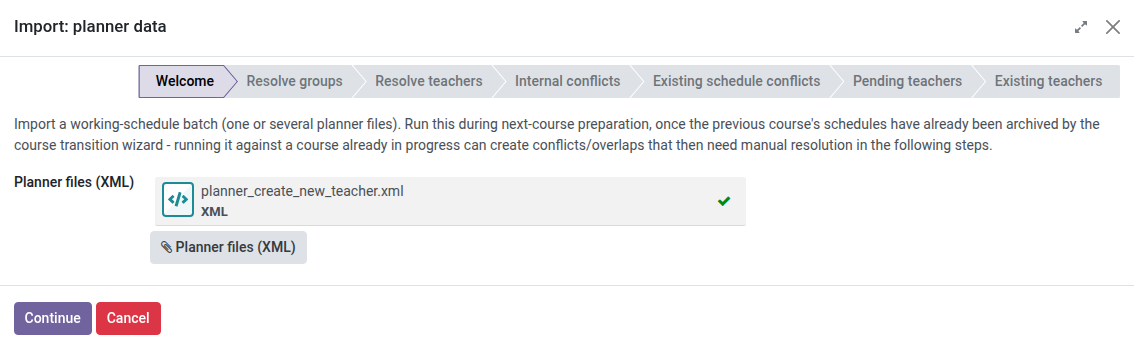
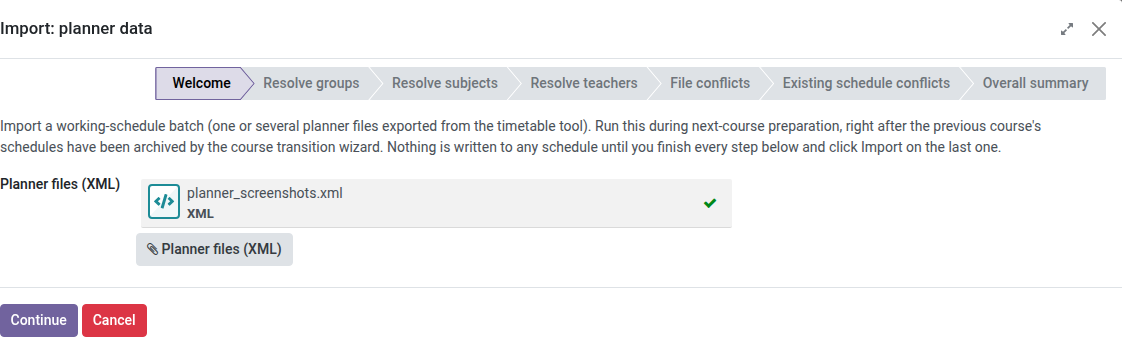
Docs

diff --git a/static/tests/tours/working_schedules_import_wizard_tour.js b/static/tests/tours/working_schedules_import_wizard_tour.js
@@ -1479,3 +1479,4 @@ registry.category("web_tour.tours").add("ems_employee_pending_identification_ind
         },
     ],
 });
+

diff --git a/tests/test_enrollment_placement.py b/tests/test_enrollment_placement.py
@@ -14,9 +14,30 @@ class TestEnrollmentPlacement(TransactionCase):
     @classmethod
     def setUpClass(cls):
         super().setUpClass()
-        Course = cls.env['ems.course']
-        cls.course = Course.search([('is_enrollment_default', '=', True)], limit=1) \
-            or Course.create({'start': 2099, 'end': 2100, 'is_enrollment_default': True})
+        # A dedicated, always-in-the-future course, explicitly made the REAL 'is_enrollment_default'
+        # one via the company selector - not a plain field write, and not left to whichever course
+        # the ambient dev DB happens to have it on. Found the hard way (2026-08-11, a full unscoped
+        # './test.sh' run): the original fixture searched for whatever course was ALREADY flagged
+        # 'is_enrollment_default', assuming that course could never also be 'current'
+        # (company.current_course_id) - an assumption 'ems.course' itself never guarantees. Per
+        # '_ems_seed_enrollment_default's own docstring, the two flags legitimately coincide for a
+        # real, expected window: right after a course transition, before the centre manually opens
+        # the FOLLOWING year's own campaign - exactly the dev DB's own current state when this broke
+        # (course '2026-2027' held both). When they coincide, '_ems_placement_is_individual()'
+        # (ems_course_id == company.current_course_id) returns True for this test's own orders,
+        # applying placement immediately instead of deferring it to the transition wizard - breaking
+        # 'test_admit_converts_applicant'/'test_admit_student_keeps_group', which specifically test
+        # the DEFERRED path. But 'is_enrollment_default' itself IS a real, load-bearing dependency
+        # elsewhere in this same file - 'res.partner._compute_transition_status()' independently
+        # searches for whichever course holds that flag (ignoring 'cls.course' entirely) to decide
+        # 'unplaced' vs 'missing' - a first fix that just dropped the flag broke
+        # 'test_action_suggest_fills_enrolled_skips_unenrolled' the same way. Routing the move
+        # through 'company.enrollment_course_id' (not a direct 'is_enrollment_default' write) reuses
+        # the same clear-then-set sync '_sync_enrollment_course_flag' already provides - exactly the
+        # mechanism a real admin moving the flag through Settings would trigger, and the only way to
+        # actually satisfy 'ems.course''s own uniqueness constraint without a separate unset step.
+        cls.course = cls.env['ems.course'].create({'start': 2099, 'end': 2100})
+        cls.env.company.enrollment_course_id = cls.course.id
         cls.level, cls.study = create_level_study(cls, 'PLV', level={'name': 'Placement Level'}, study={
             'code': 'PLC001', 'acronym': 'PLST', 'name': 'Placement Study',
         })

diff --git a/docs/es/admin/working-schedules.md b/docs/es/admin/working-schedules.md
@@ -122,15 +122,23 @@ El asistente te guía por varias pantallas, cada una con su propia explicación 
 
    ![Pantalla de Bienvenida del asistente con un archivo del planificador adjuntado](../../assets/admin/working-schedules-import-01-welcome.png)
 4. Si los archivos mencionan algún nombre de grupo que EMS no ha podido emparejar automáticamente, una pantalla de **Resolver grupos** los lista uno a uno: elige el grupo real en el desplegable de cada fila (o crea uno al vuelo, igual que en cualquier otro campo de grupo) y haz clic en **Continuar**. Si todos los grupos se reconocieron automáticamente, verás un mensaje de confirmación en lugar de una lista. El botón **Continuar** aparece atenuado hasta que todas las filas tengan un grupo elegido.
+
+   ![Pantalla de Resolver grupos con un nombre de grupo del archivo sin resolver](../../assets/admin/working-schedules-import-02-resolve-groups.png)
 5. Si un archivo indica una asignatura que en realidad no se imparte en el estudio del grupo (un código de asignatura equivocado, o un grupo asignado a la asignatura incorrecta), una pantalla de **Resolver asignaturas** lista cada discrepancia, dejándote corregir **cualquiera de los dos lados** — el que realmente estuviera mal: el campo **Grupo(s)** empieza con el grupo (o grupos) del archivo pero se puede cambiar (quita el incorrecto, añade el correcto, igual que en cualquier otro campo de grupos con etiquetas); el desplegable de **Asignatura** empieza con la asignatura del archivo y solo te deja elegir una que realmente se imparta en el estudio del grupo (ya corregido, si lo has cambiado). A menudo basta con corregir el grupo, si la asignatura del archivo era correcta desde el principio. Si todas las asignaturas coincidían correctamente, verás un mensaje de confirmación. El botón **Continuar** aparece atenuado hasta que todas las filas tengan una combinación válida.
+
+   ![Pantalla de Resolver asignaturas con un desajuste entre asignatura y grupo](../../assets/admin/working-schedules-import-03-resolve-subjects.png)
 6. Si los archivos mencionan un correo de docente o un código de puesto aún no cubierto (`X1`, `X2`...) que EMS no ha podido emparejar con ningún docente existente, una pantalla de **Resolver docentes** los lista, con **Nuevo** marcado por defecto (asumiendo un docente genuinamente nunca contratado) - déjalo marcado para crear un nuevo docente pendiente de identificar para ese caso en el paso final de Importar (ver "Docentes aún no contratados" más abajo); para una fila con correo, además se conserva el correo del archivo, precargado como **Correo de trabajo** editable a mano (**Asignar correo corporativo manualmente** marcado) en lugar de generarse automáticamente, ya que todavía no se ha confirmado. Si en realidad es un error/desajuste de un docente ya existente — o un código/correo que reconoces como la MISMA persona real ya listada en otra fila de esta misma pantalla — desmarca **Nuevo** y elige el docente real en el desplegable (desmarcarlo es lo que lo desbloquea); elegir el mismo docente para dos filas distintas empareja ambas con esa misma persona, sin crear ningún duplicado. Si todos los correos/códigos se reconocieron, verás un mensaje de confirmación. El botón **Continuar** también aparece atenuado aquí hasta que todas las filas tengan un docente elegido o **Nuevo** marcado.
 
-   ![Pantalla de Resolver docentes con la casilla Nuevo antes del desplegable Docente](../../assets/admin/working-schedules-import-02-resolve-teachers-new.png)
+   ![Pantalla de Resolver docentes con la casilla Nuevo antes del desplegable Docente](../../assets/admin/working-schedules-import-04-resolve-teachers.png)
 7. Si dos docentes distintos del mismo lote acaban programados en la misma aula a la misma hora — o si el mismo docente real (por ejemplo, dos identificadores que has resuelto hacia la misma persona en la pantalla anterior) acaba con una doble reserva a la misma hora en dos aulas distintas — una pantalla de **Conflictos del archivo** lista cada pareja, agrupada en una tarjeta por tipo de conflicto ("Co-docencia", "Sesión desdoblada", "Conflicto de aula", "Mismo docente, aula diferente"), y dentro de cada tarjeta, un bloque por cada combinación de docente+asignatura (sin importar en qué grupo/día/hora concretos caiga cada pareja), que agrupa todas las parejas que la comparten. Cada bloque tiene su propio desplegable arriba ("— aplicar a todos —") - elige una resolución ahí y se aplica a todas las filas de debajo a la vez (puedes cambiar cualquier fila individual a mano después). Cada fila describe ambas entradas en conflicto, unidas por **"vs."** - leer de izquierda a derecha es lo que significan "Izquierda"/"Derecha" en las opciones de resolución de abajo. Las opciones de resolución en sí: **"Confirmar"** si realmente comparten esa clase (solo se ofrece para filas de "Co-docencia"); **"Reasignar aulas"** para un choque real de aula - elige el aula real para cada lado, ya que ambos empiezan con la misma aula que provoca el conflicto; o **"Prevalece la izquierda"/"Prevalece la derecha"** para simplemente mantener un lado (el de antes/después del "vs." de esa fila) y descartar el otro. Una fila de "Mismo docente, aula diferente" solo ofrece "Prevalece la izquierda"/"Prevalece la derecha" - reasignar un aula no soluciona nada cuando el problema real es que un docente tenga que estar en dos sitios a la vez. Si no hay nada que resolver, verás un mensaje de confirmación. El botón **Continuar** aparece atenuado hasta que todas las filas tengan una resolución real (para "Reasignar aulas", eso significa que las dos aulas deben ser realmente distintas).
 
-   ![Pantalla de Conflictos del archivo agrupada en tarjetas, una por tipo de conflicto](../../assets/admin/working-schedules-import-03-grouped-conflicts.png)
+   ![Pantalla de Conflictos del archivo agrupada en tarjetas, una por tipo de conflicto](../../assets/admin/working-schedules-import-05-file-conflicts.png)
 8. Si alguna entrada del archivo coincide con un aula+hora ya usada activamente por el horario existente de otra persona, una pantalla de **Conflictos con horarios existentes** lista cada una del mismo modo agrupado en tarjetas - aquí cada fila indica explícitamente sus dos lados con **"Archivo: ..."** (la nueva entrada) y **"Base de datos: ..."** (la sesión ya existente), en lugar de "vs." - "Prevalece la izquierda" siempre significa que gana el lado del **Archivo**, "Prevalece la derecha" siempre significa que gana el de la **Base de datos**, siguiendo ese mismo orden. Con las mismas opciones de resolución que "Conflictos del archivo" más arriba: elegir **"Prevalece la izquierda"** archiva la sesión existente (liberando el hueco para la nueva); elegir **"Prevalece la derecha"** descarta la nueva entrada en su lugar, dejando la sesión existente intacta. Si no hay nada que resolver, verás un mensaje de confirmación.
+
+   ![Pantalla de Conflictos con horarios existentes, con una entrada del Archivo en conflicto con una sesión de la Base de datos](../../assets/admin/working-schedules-import-06-existing-schedule-conflicts.png)
 9. Una pantalla de **Resumen general** recapitula toda la operación antes de confirmarla: un recuento de cada nombre de grupo, correo/código de docente, docente pendiente y conflicto resueltos durante el proceso, más una lista de cada profesor que esta importación ya ha emparejado con un empleado real y existente (reconocido automáticamente, o corregido en la pantalla "Resolver docentes") — un aviso de que esta importación va a actualizar (sobrescribir) su horario/asignaciones de asignaturas. Si ninguno de los profesores del archivo existe ya, verás un mensaje de confirmación en lugar de esta lista. Como ninguno de los pasos anteriores permite volver atrás, esta es la última oportunidad de comprobar que todo está correcto antes de hacer clic en Importar.
+
+   ![Pantalla de Resumen general recapitulando todas las resoluciones hechas durante la importación](../../assets/admin/working-schedules-import-07-overall-summary.png)
 10. Haz clic en **Importar**. Este es el momento en que todo se escribe de verdad, y donde cualquier problema pendiente (un aula que falta) se reporta indicando exactamente qué hay que corregir.
 
 > Hazlo durante la preparación del próximo curso, una vez que los horarios del curso anterior ya hayan sido archivados por el asistente de "Configurar el próximo curso" — ejecutarlo contra un curso ya en marcha puede generar conflictos que luego habrá que resolver a mano.

diff --git a/docs/ca/admin/working-schedules.md b/docs/ca/admin/working-schedules.md
@@ -122,15 +122,23 @@ L'assistent et guia per diverses pantalles, cadascuna amb la seva pròpia explic
 
    ![Pantalla de Benvinguda de l'assistent amb un fitxer del planificador adjuntat](../../assets/admin/working-schedules-import-01-welcome.png)
 4. Si els fitxers esmenten algun nom de grup que EMS no ha pogut aparellar automàticament, una pantalla de **Resoldre grups** en llista cadascun: tria el grup real al desplegable de cada fila (o crea'n un al moment, igual que en qualsevol altre camp de grup) i fes clic a **Continua**. Si tots els grups s'han reconegut automàticament, veuràs un missatge de confirmació en lloc d'una llista. El botó **Continua** apareix atenuat fins que totes les files tenen un grup triat.
+
+   ![Pantalla de Resoldre grups amb un nom de grup del fitxer sense resoldre](../../assets/admin/working-schedules-import-02-resolve-groups.png)
 5. Si un fitxer indica una assignatura que en realitat no s'imparteix als estudis del grup (un codi d'assignatura equivocat, o un grup assignat a l'assignatura incorrecta), una pantalla de **Resoldre assignatures** en llista cada discrepància, deixant-te corregir **qualsevol dels dos costats** — el que realment estigués malament: el camp **Grup(s)** comença amb el grup (o grups) del fitxer però es pot canviar (treu l'incorrecte, afegeix el correcte, igual que en qualsevol altre camp de grups amb etiquetes); el desplegable d'**Assignatura** comença amb l'assignatura del fitxer i només et deixa triar-ne una que realment s'imparteixi als estudis del grup (ja corregit, si l'has canviat). Sovint n'hi ha prou amb corregir el grup, si l'assignatura del fitxer ja era correcta des del principi. Si totes les assignatures coincidien correctament, veuràs un missatge de confirmació. El botó **Continua** apareix atenuat fins que totes les files tenen una combinació vàlida.
+
+   ![Pantalla de Resoldre assignatures amb un desajust entre assignatura i grup](../../assets/admin/working-schedules-import-03-resolve-subjects.png)
 6. Si els fitxers esmenten un correu de docent o un codi de lloc encara no cobert (`X1`, `X2`...) que EMS no ha pogut aparellar amb cap docent existent, una pantalla de **Resoldre docents** en llista cadascun, amb **Nou** marcat per defecte (assumint un docent genuïnament mai contractat) - deixa-ho marcat per crear un nou docent pendent d'identificació per a aquest cas al pas final d'Importar (vegeu "Docents encara no contractats" més avall); per a una fila amb correu, a més es conserva el correu del fitxer, precarregat com a **Correu de treball** editable a mà (**Assignar correu corporatiu manualment** marcat) en lloc de generar-se automàticament, ja que encara no s'ha confirmat. Si en realitat és un error/desajust d'un docent ja existent — o un codi/correu que reconeixes com la MATEIXA persona real ja llistada en una altra fila d'aquesta mateixa pantalla — desmarca **Nou** i tria el docent real al desplegable (desmarcar-lo és el que el desbloqueja); triar el mateix docent per a dues files diferents les aparella totes dues amb aquella mateixa persona, sense crear-ne cap duplicat. Si tots els correus/codis s'han reconegut, veuràs un missatge de confirmació. El botó **Continua** també apareix atenuat aquí fins que totes les files tenen un docent triat o **Nou** marcat.
 
-   ![Pantalla de Resoldre docents amb la casella Nou abans del desplegable Docent](../../assets/admin/working-schedules-import-02-resolve-teachers-new.png)
+   ![Pantalla de Resoldre docents amb la casella Nou abans del desplegable Docent](../../assets/admin/working-schedules-import-04-resolve-teachers.png)
 7. Si dos docents diferents del mateix lot acaben programats a la mateixa aula i la mateixa hora — o si el mateix docent real (per exemple, dos identificadors que has resolt cap a la mateixa persona a la pantalla anterior) acaba amb una doble reserva a la mateixa hora en dues aules diferents — una pantalla de **Conflictes del fitxer** en llista cada parella, agrupada en una targeta per tipus de conflicte ("Co-docència", "Sessió desdoblada", "Conflicte d'aula", "Mateix docent, aula diferent"), i dins de cada targeta, un bloc per cada combinació de docent+assignatura (independentment de a quin grup/dia/hora concrets caigui cada parella), que agrupa totes les parelles que la comparteixen. Cada bloc té el seu propi desplegable a dalt ("— aplicar a tots —") — tria una resolució allà i s'aplica a totes les files de sota alhora (pots canviar qualsevol fila individual a mà després). Cada fila descriu totes dues entrades en conflicte, unides per **"vs."** — llegir d'esquerra a dreta és el que volen dir "Esquerra"/"Dreta" a les opcions de resolució de sota. Les opcions de resolució en si: **"Confirmar"** si realment comparteixen aquella classe (només s'ofereix per a files de "Co-docència"); **"Reassignar aules"** per a un xoc real d'aula - tria l'aula real per a cada costat, ja que totes dues comencen amb la mateixa aula que provoca el conflicte; o **"Preval l'esquerra"/"Preval la dreta"** per mantenir simplement un costat (el d'abans/després del "vs." d'aquella fila) i descartar l'altre. Una fila de "Mateix docent, aula diferent" només ofereix "Preval l'esquerra"/"Preval la dreta" - reassignar una aula no soluciona res quan el problema real és que un docent hagi d'estar en dos llocs alhora. Si no hi ha res a resoldre, veuràs un missatge de confirmació. El botó **Continua** apareix atenuat fins que totes les files tenen una resolució real (per a "Reassignar aules", això vol dir que les dues aules han de ser realment diferents).
 
-   ![Pantalla de Conflictes del fitxer agrupada en targetes, una per tipus de conflicte](../../assets/admin/working-schedules-import-03-grouped-conflicts.png)
+   ![Pantalla de Conflictes del fitxer agrupada en targetes, una per tipus de conflicte](../../assets/admin/working-schedules-import-05-file-conflicts.png)
 8. Si alguna entrada del fitxer coincideix amb una aula+hora ja utilitzada activament per l'horari existent d'algú altre, una pantalla de **Conflictes amb horaris existents** en llista cadascuna del mateix mode agrupat en targetes - aquí cada fila indica explícitament els seus dos costats amb **"Fitxer: ..."** (la nova entrada) i **"Base de dades: ..."** (la sessió ja existent), en lloc de "vs." - "Preval l'esquerra" sempre vol dir que guanya el costat del **Fitxer**, "Preval la dreta" sempre vol dir que guanya el de la **Base de dades**, seguint aquest mateix ordre. Amb les mateixes opcions de resolució que "Conflictes del fitxer" més amunt: triar **"Preval l'esquerra"** arxiva la sessió existent (alliberant l'espai per a la nova); triar **"Preval la dreta"** descarta la nova entrada en lloc d'això, deixant la sessió existent intacta. Si no hi ha res a resoldre, veuràs un missatge de confirmació.
+
+   ![Pantalla de Conflictes amb horaris existents, amb una entrada del Fitxer en conflicte amb una sessió de la Base de dades](../../assets/admin/working-schedules-import-06-existing-schedule-conflicts.png)
 9. Una pantalla de **Resum general** recapitula tota l'operació abans de confirmar-la: un recompte de cada nom de grup, correu/codi de docent, docent pendent i conflicte resolts durant el procés, més una llista de cada docent que aquesta importació ja ha aparellat amb un empleat real i existent (reconegut automàticament, o corregit a la pantalla "Resoldre docents") — un avís de que aquesta importació està a punt d'actualitzar (sobreescriure) el seu horari/assignacions d'assignatures. Si cap dels docents del fitxer existeix ja, veuràs un missatge de confirmació en lloc d'aquesta llista. Com que cap dels passos anteriors permet tornar enrere, aquesta és la darrera oportunitat de comprovar que tot és correcte abans de fer clic a Importa.
+
+   ![Pantalla de Resum general recapitulant totes les resolucions fetes durant la importació](../../assets/admin/working-schedules-import-07-overall-summary.png)
 10. Fes clic a **Importa**. Aquest és el moment en què tot s'escriu de debò, i on qualsevol problema pendent (una aula que falta) es reporta indicant exactament què cal corregir.
 
 > Fes-ho durant la preparació del proper curs, un cop els horaris del curs anterior ja hagin estat arxivats per l'assistent de "Configurar el proper curs" — executar-ho contra un curs ja en marxa pot generar conflictes que després caldrà resoldre a mà.

diff --git a/docs/en/admin/working-schedules.md b/docs/en/admin/working-schedules.md
@@ -122,15 +122,23 @@ The wizard walks you through several screens, each showing its own short explana
 
    ![The wizard's Welcome screen with a planner file attached](../../assets/admin/working-schedules-import-01-welcome.png)
 4. If the files mention any group name EMS couldn't match automatically, a **Resolve groups** screen lists each one: pick the real group from the dropdown for each row (or create one on the spot, the same way you would from any other group field), then click **Continue**. If every group was recognized automatically, you'll see a confirmation message instead of a list. **Continue** shows grayed out until every row has a group picked.
+
+   ![The Resolve groups screen listing an unresolved group name found in the file](../../assets/admin/working-schedules-import-02-resolve-groups.png)
 5. If a file names a subject that isn't actually taught in the group's own study (a wrong subject code, or a group assigned to the wrong subject), a **Resolve subjects** screen lists each mismatch, letting you correct **either side** — whichever one was actually the mistake: the **Group(s)** field starts on the file's own group(s) but can be changed (remove the wrong one, add the right one, same as any other group tag field); the **Subject** dropdown starts on the file's own subject and only lets you pick one actually taught in the group's (possibly just-corrected) study. Fixing the group alone is often enough on its own, if the file's subject was right all along. If every subject matched correctly, you'll see a confirmation message instead. **Continue** shows grayed out until every row has a valid combination.
+
+   ![The Resolve subjects screen listing a subject/group mismatch found in the file](../../assets/admin/working-schedules-import-03-resolve-subjects.png)
 6. If the files mention a teacher e-mail or not-yet-hired post code (`X1`, `X2`...) EMS couldn't match to an existing teacher, a **Resolve teachers** screen lists each one, with **New** ticked by default (assuming a genuinely never-hired teacher) — leave it ticked to create a brand-new pending-identification teacher for it at the final Import step (see "Teachers Not Yet Hired" below); for an e-mail-shaped row, the file's own e-mail is additionally kept and pre-filled as their **Work email**, editable by hand (**Assign corporate email manually** ticked) rather than auto-generated, since it hasn't been confirmed yet. If it's actually a typo/mismatch of an already-existing teacher — or a code/e-mail you recognize as the SAME real person already listed under a different row on this same screen — untick **New** and pick the real teacher from the dropdown instead (unticking is what unlocks it); picking the same teacher for two different rows resolves both to that one person, no duplicate created. If every e-mail/code was recognized, you'll see a confirmation message instead. **Continue** shows grayed out here too until every row has either a teacher picked or **New** ticked.
 
-   ![The Resolve teachers screen with the New checkbox before the Teacher dropdown](../../assets/admin/working-schedules-import-02-resolve-teachers-new.png)
+   ![The Resolve teachers screen with the New checkbox before the Teacher dropdown](../../assets/admin/working-schedules-import-04-resolve-teachers.png)
 7. If two different teachers in the same batch end up scheduled in the same classroom at the same time — or the same real teacher (e.g. two identifiers you resolved to the same person on the previous screen) ends up double-booked at the same time in two different rooms — a **File conflicts** screen lists every colliding pair, grouped into a card per conflict type ("Co-teaching", "Split session", "Room conflict", "Same teacher, different room"), and within each card, one block per teacher+subject combination (ignoring which specific group/day/time each individual pair happens to fall on) holding every pair that shares it. Each block has its own dropdown at the top ("— apply to all —") — pick a resolution there and it's applied to every row underneath at once (you can still change any individual row by hand afterward). Each row spells out both colliding entries in full, joined by **"vs."** — reading left to right is what "Left"/"Right" mean in the resolution options below. The resolution options themselves: **"Confirm"** if they're genuinely sharing that class (only offered for "Co-teaching" rows); **"Reassign rooms"** for a real room clash — pick the actual room for each side, since both start pre-filled with the same colliding one; or **"Left prevails"/"Right prevails"** to simply keep one side (the one before/after "vs." on that row) and drop the other. A "Same teacher, different room" row only ever offers "Left prevails"/"Right prevails" — reassigning a room fixes nothing when the real problem is one teacher needed in two places at once. If there's nothing to resolve, you'll see a confirmation message instead. **Continue** shows grayed out until every row has an actual resolution (for "Reassign rooms", that means the two rooms must actually differ).
 
-   ![The Existing schedule conflicts screen grouped into a card, with a bulk resolution dropdown above each colliding pair](../../assets/admin/working-schedules-import-03-grouped-conflicts.png)
+   ![The File conflicts screen grouped into a card, with a bulk resolution dropdown above each colliding pair](../../assets/admin/working-schedules-import-05-file-conflicts.png)
 8. If any entry from the file collides with a classroom+time already actively used by someone else's existing schedule, an **Existing schedule conflicts** screen lists each one the same grouped-cards way — here each row explicitly prefixes its two sides **"File: ..."** (the new entry) and **"Database: ..."** (the already-existing session), instead of "vs." — "Left prevails" always means the **File** side wins, "Right prevails" always means the **Database** side wins, matching that same order. With the same resolution options as "File conflicts" above: choosing **"Left prevails"** archives the existing session (freeing the slot for the new one); choosing **"Right prevails"** drops the new entry instead, keeping the existing session untouched. If there's nothing to resolve, you'll see a confirmation message instead.
+
+   ![The Existing schedule conflicts screen, showing a File entry colliding with a Database session](../../assets/admin/working-schedules-import-06-existing-schedule-conflicts.png)
 9. An **Overall summary** screen recaps the whole run before you commit to it: a count of every unresolved group name, teacher e-mail/code, pending teacher, and conflict resolved along the way, plus a list of every teacher this import already matched to a real, existing employee (whether recognized automatically or corrected on the "Resolve teachers" screen) — a heads-up that this import is about to update (override) their schedule/subject assignments. If none of the file's teachers already exist, you'll see a confirmation message instead of that list. Since none of the earlier steps let you go back, this is your last chance to check everything looks right before clicking Import.
+
+   ![The Overall summary screen recapping every resolution made during the import](../../assets/admin/working-schedules-import-07-overall-summary.png)
 10. Click **Import**. This is the point where everything is actually written, and where any remaining problem (a missing classroom) is reported, naming exactly what needs fixing.
 
 > Run this during next-course preparation, once the previous course's schedules have already been archived by the "Setting Up the Next Course" wizard — running it against a course already in progress can create conflicts that then need manual resolution.

diff --git a/changelog/362-create-pending-teachers-when-importing-schedules-as-batch.md b/changelog/362-create-pending-teachers-when-importing-schedules-as-batch.md
@@ -130,6 +130,14 @@
 
 # Fixes:
 
+## Teachers pre-existing before the auto-created-calendar feature landed had no working schedule, only teachings, and the wizard couldn't create one for them:
+- Real import bug (2026-08-11): merging two raw file identifiers onto an already-existing teacher ("Óscar Bagán") completed the import and created `ems.teaching` rows, but the teacher's Schedule tab stayed empty and manually creating one failed with "No working schedule assigned to this employee yet." Root cause: `hr.employee.resource_calendar_id` is only auto-created at `create()` time (commit `bc29e04b`, `18.0.0.20.0`, 2026-07-12) - never backfilled for employees that already existed before that change, and `migrations/18.0.0.20.0/post-migrate.py` only re-pointed employees whose calendar was the old shared company one, never checked for `resource_calendar_id IS NULL` directly. `ems.teaching.sync_from_schedule()` writes `teacher.teaching_ids` independently of the calendar, which is why teachings existed while the schedule didn't. Confirmed **not** related to the course-transition wizard: `_apply_calendar_archival`/`_apply_calendar_rollover`'s own `affected_teachers` is built from `_migrating_calendar_blocks()` (teachers who already HAVE calendar blocks), so a calendar-less teacher never enters that flow either way. 8 pre-existing teachers found affected on this dev DB; fixed locally for the affected teacher via a one-off `odoo shell` script mirroring `hr.employee.create()`'s own calendar-seeding logic.
+- A proper migration-level backfill (create a `resource.calendar` for every `employee_type='teacher'` with a falsy `resource_calendar_id`, for the `18.0.0.22.0` upgrade path before this wizard reaches production) is tracked as a requirement in `plans/calendar_driven_attendance_templates.md` rather than fixed ad-hoc here, since that plan already owns the schedule/attendance-template relationship this backfill belongs next to.
+
+## `test_admit_converts_applicant`/`test_admit_student_keeps_group` (`TestEnrollmentPlacement`) failed on a full, unscoped `./test.sh` run, unrelated to this branch's own feature code:
+- The fixture searched for whichever course was already flagged `is_enrollment_default`, assuming it could never also be the company's `current_course_id` - an assumption `ems.course` itself never guarantees (`_ems_seed_enrollment_default`'s own docstring documents a real, expected window right after a course transition where both flags legitimately coincide on the same course, which is exactly this dev DB's state). When they coincide, `_ems_placement_is_individual()` applies placement immediately instead of deferring it to the transition wizard, breaking both tests, which specifically exercise the deferred path.
+- Fixed by routing the fixture's course through `company.enrollment_course_id = cls.course.id` (the real sync mechanism, `_sync_enrollment_course_flag`) instead of a bare `create()` - this both keeps the new course out of `current_course_id` and satisfies `res.partner._compute_transition_status()`'s own independent dependency on `is_enrollment_default` (broken by a first fix attempt that dropped the flag entirely). `TestEnrollmentPlacement` (42/42) green, isolated and via the full suite; full, unscoped `./test.sh` 100% green afterwards.
+
 ## "The subject must be available in every one of the selected studies" error gave no way to tell which subject, study or template it was about:
 - Developer feedback (2026-08-10, hit for real): *"He tenido un error... pero no sé a qué estudio se refiere ni dónde ha aparecido este problema."* `ems.attendance_template._check_subject_valid_for_all_studies` raised a fixed, generic sentence with no reference to the actual subject, the studies missing it, or which template (which group/teacher) triggered the check — unactionable on its own, especially when raised from a batch context (e.g. the working-schedule import wizard) with several templates involved.
 - Fixed to name the subject, list exactly which of the template's selected studies don't teach it, and identify the template itself by its group(s) and teacher(s) — e.g. `"The subject 'Mathematics' is not available in the following selected studies: CFGM Study (template for group(s) DAM1A, teacher(s) Jane Doe)."` New regression test (`test_invalid_subject_for_study_error_identifies_subject_study_group_and_teacher`) asserts all four pieces of information are present in the message, plus a real Catalan translation verified functionally under a `lang='ca_ES'` context. `TestAttendanceTemplate` (28/28) green.
@@ -255,7 +263,10 @@
 
 # Internal changes:
 
-## `resource.calendar.attendance` gains an `active` field (phase 2 of the course-transition archival plan):
+## Admin manual for the schedule import wizard refreshed with a screenshot for every one of its 7 real screens:
+- The manual (`docs/{en,ca,es}/admin/working-schedules.md`) had fallen behind the wizard's own redesign: only 3 of the current 7 screens had a screenshot, 2 of those 3 were stale (an old 6-step statusbar, an old "E-mail found in file" column label, "New" shown unticked when it now defaults ticked, and a group-name duplication bug already fixed the same day it was captured), and one screenshot's own alt text described "Existing schedule conflicts" while it was physically illustrating "File conflicts" - that screen never had a real screenshot of its own at all.
+- All 7 recaptured via a temporary tour (deleted once done, per its own `TEMP_SCREENSHOT_PROBE_DO_NOT_MERGE` marker) driving a single realistic scenario through every screen in sequence (an unresolved group typo, a subject/study mismatch, two unresolved teacher codes, a "split session" file conflict, a room conflict against an already-active DB session, and a rich Overall summary). Every raw capture was inspected before cropping - each one initially included a background "Working Schedules" list with real employee names visible behind the modal, cropped tightly to the modal alone and re-verified clean before saving, per the screenshot personal-data rule.
+- All three language versions' numbered steps now reference the correct, current screenshot at each step.
 - Core Odoo's model has none. Added so a later phase can archive a teacher's migrating calendar blocks at course transition instead of `unlink()`-ing them, which would destroy the exact history a "who taught what, which course" query needs (`plans/course_transition_teacher_schedule_archival.md`). All 1436 existing rows auto-backfilled to `active=True` by Odoo's own new-column handling. Nothing writes `active=False` here yet - that's a later phase.
 - New test: `test_attendance_row_active_defaults_true_and_can_be_archived` (`tests/test_working_schedule.py`).
 - **Explicitly confirmed, and pinned down with regression tests, that archiving an `ems.attendance_schedule` line must never cascade to its `ems.attendance_session_header` records, in either direction**: once a line `has_sessions`, its logistics fields are readonly, so a routine correction (e.g. fixing its room) silently archives the old line and clones a new version (`action_new_version()`) as a side effect of what looks like a normal in-place edit - if that cascaded to sessions, every such correction would wipe the line's attendance history from a teacher's default view, the opposite of the intent. New tests: `test_action_archive_does_not_cascade_to_sessions`, `test_action_archive_on_template_does_not_cascade_to_sessions` (`tests/test_attendance_template.py`).

diff --git a/CLAUDE.md b/CLAUDE.md
@@ -467,6 +467,8 @@ whether Spec/Red start from a blank file or a diff:
 
    **Defer the full user-doc pass — and especially screenshots — while the feature is still under active design iteration in the same conversation (developer feedback 2026-08-10):** found while doing exactly this on the working-schedules import wizard — several small, still-evolving design tweaks in a row (a screen's position, its name, its own technical `state` key, then per-screen intro text) each triggered their own full Close step, rewriting the same admin-manual prose repeatedly for what was really one feature the developer hadn't yet confirmed as final. Screenshots are the expensive part to redo (capture, crop, verify no personal data leaked, re-crop); prose is cheaper but still wasted effort when the next message changes the same paragraph again. **How to apply:** keep the Spec-time *stub* current every cycle (already the rule above, and cheap either way), and keep the developer-facing English dev doc (`docs/en/developers/...`) current every cycle too (plain text, no screenshots, and it's the running record of *why*, needed to explain each iteration's own reasoning while it's still fresh) — but hold off writing the *full* three-language user-doc content and any screenshots until the developer actually confirms the feature has reached its final shape (a clear signal like "ya está", or simply moving on to unrelated work without more tweaks), then do one real Close pass covering everything that changed since the stub. If a change is genuinely a one-shot (no back-and-forth expected), there's no "still iterating" state to wait out — do the full Close immediately as before. When unsure whether more iteration is coming, ask rather than guessing which side to default to.
 
+   **Track every deferred Close-step obligation proactively once it's been deferred — don't rely on being reminded (developer feedback 2026-08-11):** deferring the screenshot/full-doc pass above, or pushing the full unscoped `./test.sh` gate to "later, once confirmed," is fine — but once deferred, it must stay tracked as a live, explicit item (e.g. via the `TodoWrite` tool) for the rest of the session, not just left as prose inside this file or a memory/plan file to be re-discovered later. Real incident: after finishing a feature (a new wizard screen, tested and working), the developer asked "¿qué nos queda de este trabajo?" — the answer covered an unrelated plan-file audit but omitted that the full test gate had never been run and the screenshot-inclusive doc close was still outstanding, both already known to be deferred. The developer had to point out both themselves: *"te has olvidado de lo que quedaba pendiente... que esto no vuelva a pasar, por favor. Si te pregunto que queda pendiente, deberías saberlo si esto ya se ha hecho o no."* **How to apply:** the moment a Close-step item is deliberately deferred, add it to the todo list right then, not after the fact. When asked "what's left/pending" in any phrasing, check that tracked state first, before answering from memory/plan files alone — the answer should reflect what you already know is outstanding, not require the developer to notice a gap you already knew about.
+
 ## PR changelog: persist silently, deliver only on request
 
 The developer keeps the chat in Spanish but writes their GitHub PR description in English,
